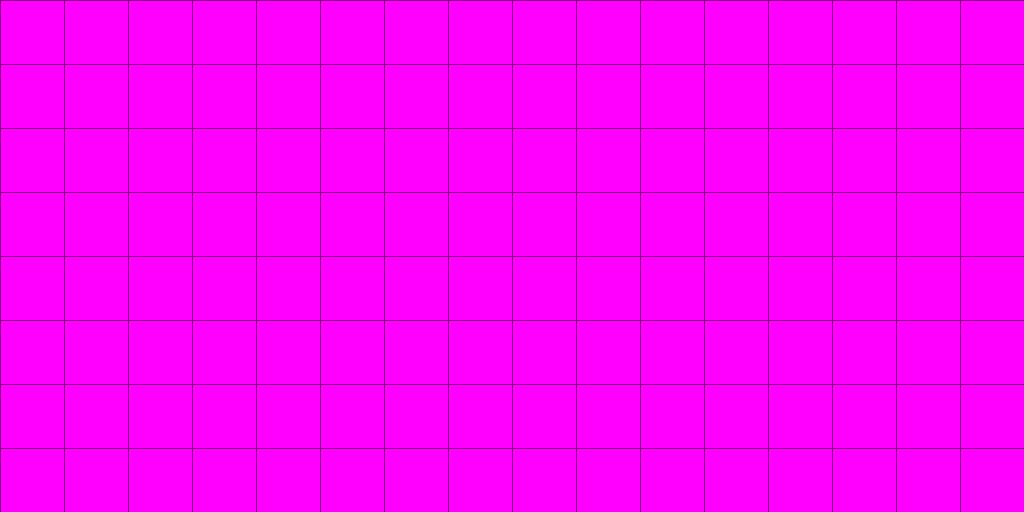
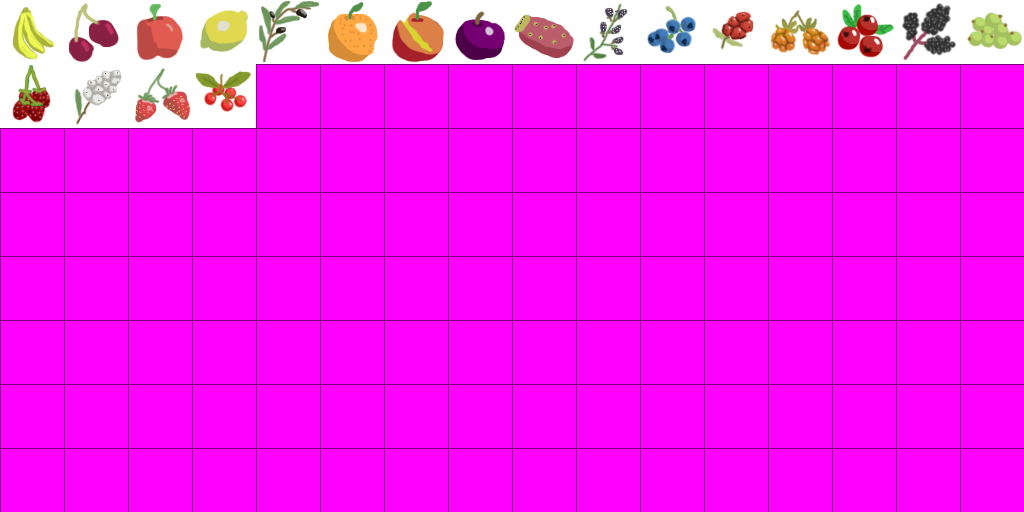
Added food sprites

Changed region(s): [[0.0, 0.0, 1.0, 0.25]]

diff --git a/src/test/beings/plants/Fruit.java b/src/test/beings/plants/Fruit.java
@@ -2,30 +2,32 @@ package test.beings.plants;
 
 import com.josephs_projects.library.graphics.Image;
 
+import test.Main;
+
 public enum Fruit {
 	// Trees
-	BANANA_TREE("banana", 45, 85), 
-	CHERRY_TREE("cherry", 20, 40),
-	APPLE_TREE("apple", 25, 45),
-	LEMON_TREE("lemon", 10, 85),
-	OLIVE_TREE("olive", 25, 75),
-	ORANGE_TREE("orange", 45, 90), 
-	PEACH_TREE("peach", 5, 75), 
-	PLUM_TREE("plum", 30, 45), 
-	CACTUS("cactus", 10, 90),
+	BANANA_TREE("banana", 40, 85, 0), 
+	CHERRY_TREE("cherry", 20, 40, 1),
+	APPLE_TREE("apple", 25, 45, 2),
+	LEMON_TREE("lemon", 10, 85, 3),
+	OLIVE_TREE("olive", 25, 75, 4),
+	ORANGE_TREE("orange", 40, 90, 5), 
+	PEACH_TREE("peach", 5, 75, 6), 
+	PLUM_TREE("plum", 30, 45, 7), 
+	CACTUS("cactus", 10, 90, 8),
 
 	// Bushes
-	BLACKBERRY_BUSH("blackberry", 17, 60),
-	BLUEBERRY_BUSH("blueberry", 17, 60),
-	BUNCHBERRY_BUSH("bunchberry", 17, 50),
-	CLOUDBERRY_BUSH("cloudberry", 25, 50),
-	CRANBERRY_BUSH("cranberry", 45, 55),
-	ELDERBERRY_BUSH("elderberry", 17, 60),
-	GOOSEBERRY_BUSH("gooseberry", 17, 60),
-	RASPBERRY_BUSH("raspberry", 17, 60),
-	SNOWBERRY_BUSH("snowberry", 17, 40),
-	STRAWBERRY_BUSH("strawberry", 40, 80),
-	WINTERGREENBERRY_BUSH("wintergreenberry", 40, 50);
+	BLACKBERRY_BUSH("blackberry", 17, 60, 9),
+	BLUEBERRY_BUSH("blueberry", 17, 60, 10),
+	BUNCHBERRY_BUSH("bunchberry", 17, 50, 11),
+	CLOUDBERRY_BUSH("cloudberry", 25, 50, 12),
+	CRANBERRY_BUSH("cranberry", 45, 55, 13),
+	ELDERBERRY_BUSH("elderberry", 17, 60, 14),
+	GOOSEBERRY_BUSH("gooseberry", 17, 60, 15),
+	RASPBERRY_BUSH("raspberry", 17, 60, 16),
+	SNOWBERRY_BUSH("snowberry", 17, 40, 17),
+	STRAWBERRY_BUSH("strawberry", 40, 80, 18),
+	WINTERGREENBERRY_BUSH("wintergreenberry", 40, 50, 19);
 
 	public double waterHardiness;
 	public int preferedTemp;
@@ -34,8 +36,9 @@ public enum Fruit {
 	public int[] subAdultImage;
 	public int[] adultImage;
 	public int[] pregnantImage;
+	public int[] holdableImage;
 
-	Fruit(String imagePath, double waterHardiness, int preferedTemp) {
+	Fruit(String imagePath, double waterHardiness, int preferedTemp, int foodNumber) {
 		this.waterHardiness = waterHardiness;
 		this.preferedTemp = preferedTemp;
 		babyImage = Image.loadImage("/res/plants/fruit/" + imagePath + "/baby.png");
@@ -43,5 +46,6 @@ public enum Fruit {
 		subAdultImage = Image.loadImage("/res/plants/fruit/" + imagePath + "/subadult.png");
 		adultImage = Image.loadImage("/res/plants/fruit/" + imagePath + "/adult.png");
 		pregnantImage = Image.loadImage("/res/plants/fruit/" + imagePath + "/pregnant.png");
+		holdableImage = Main.food.getSubset((foodNumber) % 16, (foodNumber) / 16, 64);
 	}
 }

diff --git a/src/test/Main.java b/src/test/Main.java
@@ -74,6 +74,7 @@ import test.interfaces.Interactable;
 
 public class Main {
 	public static SpriteSheet spritesheet = new SpriteSheet("/res/spritesheet.png", 256);
+	public static SpriteSheet food = new SpriteSheet("/res/food.png", 1024);
 	public static Player player;
 	public static ArrayList<Holdable> holdables = new ArrayList<>();
 	public static ArrayList<Interactable> interactables = new ArrayList<>();
@@ -95,9 +96,19 @@ public class Main {
 		Shovel shovel = (Shovel) new Shovel().setPosition(player.getPosition());
 		shovel.hafted = true;
 		r.addElement(shovel);
+
+		System.out.println("Generating trees");
+		addElement(new TreePlant(Tree.SAVANNAH), 1000);
+		addElement(new TreePlant(Tree.MESQUITE), 1000);
+		addElement(new TreePlant(Tree.SPRUCE), 1000);
+		addElement(new TreePlant(Tree.PINE), 1000);
+		addElement(new TreePlant(Tree.WILLOW), 1000);
+		addElement(new TreePlant(Tree.RUBBER), 1000);
+		addElement(new TreePlant(Tree.OAK), 1000);
+		addElement(new TreePlant(Tree.MAPLE), 1000);
 		
 		System.out.println("Generating fruit");
-		int numberOfFruit = 64;
+		int numberOfFruit = 150;
 		addElement(new FruitPlant(Fruit.CACTUS), numberOfFruit);
 		addElement(new FruitPlant(Fruit.APPLE_TREE), numberOfFruit);
 		addElement(new FruitPlant(Fruit.BANANA_TREE), numberOfFruit);
@@ -134,23 +145,13 @@ public class Main {
 		addElement(new VegetablePlant(Vegetable.SQUASH), numberOfVegetables);
 
 		System.out.println("Generating grains");
-		int numberOfGrain = 500;
+		int numberOfGrain = 200;
 		addElement(new GrainPlant(Grain.BARLEY), numberOfGrain);
 		addElement(new GrainPlant(Grain.CORN), numberOfGrain);
 		addElement(new GrainPlant(Grain.RYE), numberOfGrain);
 		addElement(new GrainPlant(Grain.WHEAT), numberOfGrain);
 		addElement(new GrainPlant(Grain.OAT), numberOfGrain);
 		addElement(new GrainPlant(Grain.RICE), numberOfGrain);
-
-		System.out.println("Generating trees");
-		addElement(new TreePlant(Tree.SAVANNAH), 1000);
-		addElement(new TreePlant(Tree.MESQUITE), 1000);
-		addElement(new TreePlant(Tree.SPRUCE), 1000);
-		addElement(new TreePlant(Tree.PINE), 1000);
-		addElement(new TreePlant(Tree.WILLOW), 1000);
-		addElement(new TreePlant(Tree.RUBBER), 1000);
-		addElement(new TreePlant(Tree.OAK), 1000);
-		addElement(new TreePlant(Tree.MAPLE), 1000);
 
 		System.out.println("Generating stones");
 		addElement(new Stone(), 1000);

diff --git a/src/test/beings/plants/GrainPlant.java b/src/test/beings/plants/GrainPlant.java
@@ -15,7 +15,7 @@ public class GrainPlant extends Plant implements Element, Interactable{
 	public Grain type;
 	
 	public GrainPlant(Grain type) {
-		super(getRandomTuple());
+		super(getRandomTuple(type.preferedTemp));
 		growthStage = Being.GrowthStage.ADULT;
 		waterHardiness = type.waterHardiness;
 		preferedTemp = type.preferedTemp;
@@ -27,15 +27,16 @@ public class GrainPlant extends Plant implements Element, Interactable{
 	@Override
 	public void tick() {		
 		grow();
+
 		decayHunger();
 		drinkWater();
-		if(waterTimer <= 0 || checkBadTemp())
-			remove();
-		if(dieIfRootRot())
-			remove();
-		dieIfBadTemp();
 
-		if(!Main.r.registryContains((Element) this))
+		if (checkBadTemp())
+			remove();
+
+		dieIfDehydrated();
+
+		if (!Main.r.registryContains((Element) this))
 			remove();
 	}
 
@@ -97,13 +98,14 @@ public class GrainPlant extends Plant implements Element, Interactable{
 		return false;
 	}
 	
-	static Tuple getRandomTuple() {
+	static Tuple getRandomTuple(float preferedTemp) {
 		Tuple randPoint = new Tuple(513, 205);
 		do {
 			int x = Registrar.rand.nextInt(1025);
 			int y = Registrar.rand.nextInt(1025);
 			randPoint = new Tuple(x, y);
-		} while (Main.terrain.getPlot(randPoint) < 0.5 || Main.findClosestDistance(randPoint) < 1);
+		} while (Main.terrain.getPlot(randPoint) < 0.5 || Main.findClosestDistance(randPoint) < 1
+				|| Math.abs(Main.terrain.getTemp(randPoint) - preferedTemp) > 20);
 		return randPoint;
 	}
 }

diff --git a/src/test/Player.java b/src/test/Player.java
@@ -9,6 +9,8 @@ import com.josephs_projects.library.Tuple;
 import com.josephs_projects.library.graphics.Render;
 
 import test.beings.Being;
+import test.beings.plants.Fruit;
+import test.beings.plants.FruitPlant;
 import test.interfaces.Holdable;
 import test.interfaces.Interactable;
 
@@ -38,7 +40,16 @@ public class Player extends Being implements Element {
 		} else if (pickupDown) {
 			pickupDown = false;
 			pickup();
-			System.out.println(Main.r.registrySize());
+			int numberOfTheseFruit = 0;
+			for(int i = 0; i < Main.interactables.size(); i++) {
+				if(Main.interactables.get(i) instanceof FruitPlant) {
+					if(((FruitPlant) Main.interactables.get(i)).type == Fruit.BLUEBERRY_BUSH) {
+						numberOfTheseFruit ++;
+						
+					}
+				}
+			}
+			System.out.println(numberOfTheseFruit);
 		}
 
 		if (Registrar.mouse.getMouseLeftDown()) {
@@ -161,7 +172,7 @@ public class Player extends Being implements Element {
 		Tuple randPoint = new Tuple(513, 205);
 		do {
 			int x = Registrar.rand.nextInt(685) + 170;
-			int y = 512;//Registrar.rand.nextInt(685) + 170;
+			int y = Registrar.rand.nextInt(685) + 170;
 			randPoint = new Tuple(x, y);
 		} while (Main.terrain.getPlot(randPoint) < 0.5);
 		return randPoint;

diff --git a/src/test/holdables/food/FruitObject.java b/src/test/holdables/food/FruitObject.java
@@ -15,7 +15,7 @@ import test.interfaces.Plantable;
 public class FruitObject implements Element, Holdable, Plantable {
 	Tuple position;
 	boolean held = false;
-	int[] image = Main.spritesheet.getSubset(1, 0, 64);
+	int[] image;
 	boolean onBush = true;
 	double decay = 1;
 	Fruit type;
@@ -23,6 +23,7 @@ public class FruitObject implements Element, Holdable, Plantable {
 	public FruitObject(Tuple position, Fruit type) {
 		this.position = position;
 		Main.holdables.add(this);
+		image = type.holdableImage;
 		this.type = type;
 	}
 
@@ -47,7 +48,7 @@ public class FruitObject implements Element, Holdable, Plantable {
 			y = (int) position.getY() * 64 - Main.player.getY() + 32;
 		} else {
 			x = 50;
-			y = 7 * 64 - 106;
+			y = 7 * 64 - 106 + 48;
 		}
 		r.drawImage(x, y, 64, image, 1, 0);
 	}
